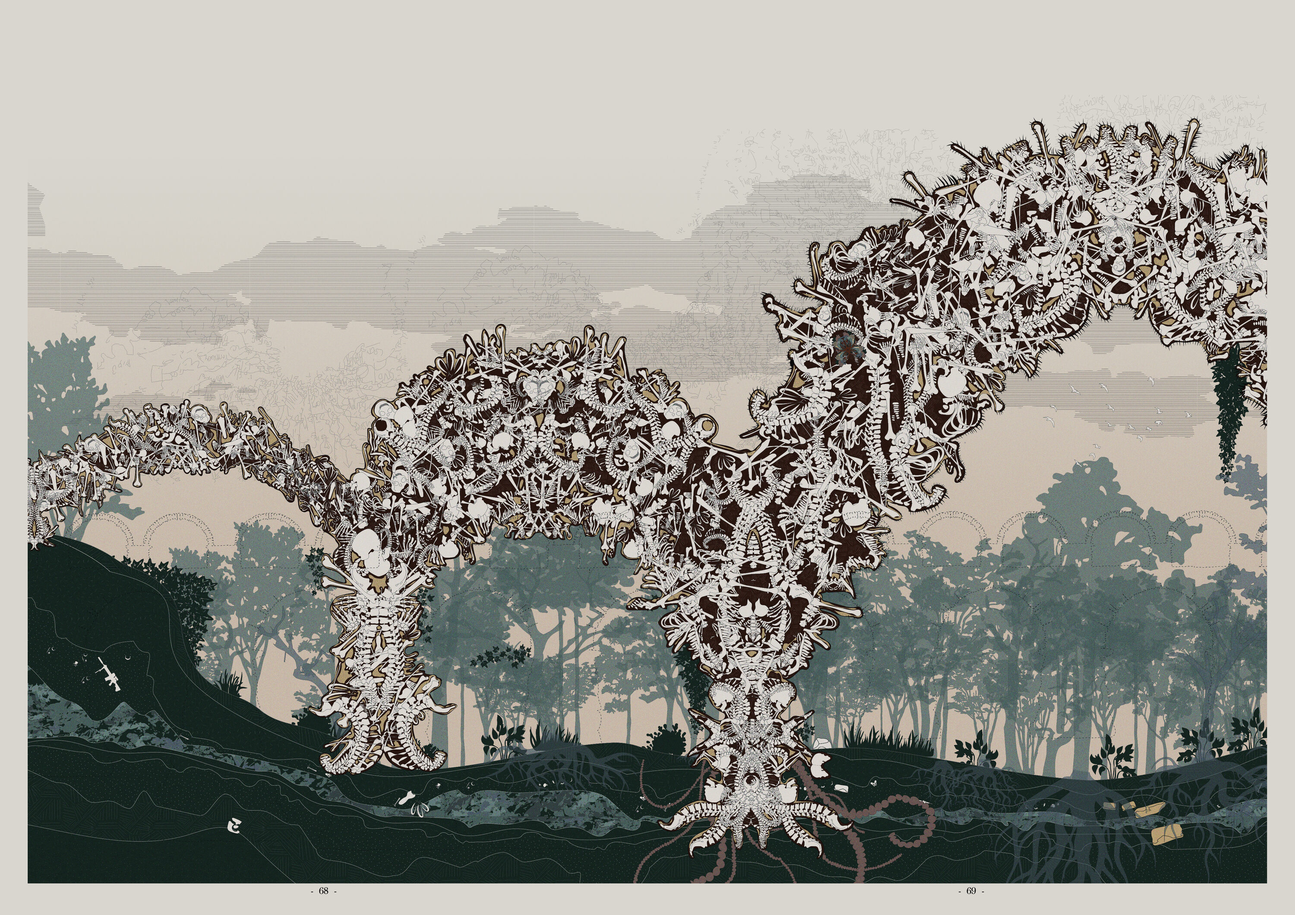
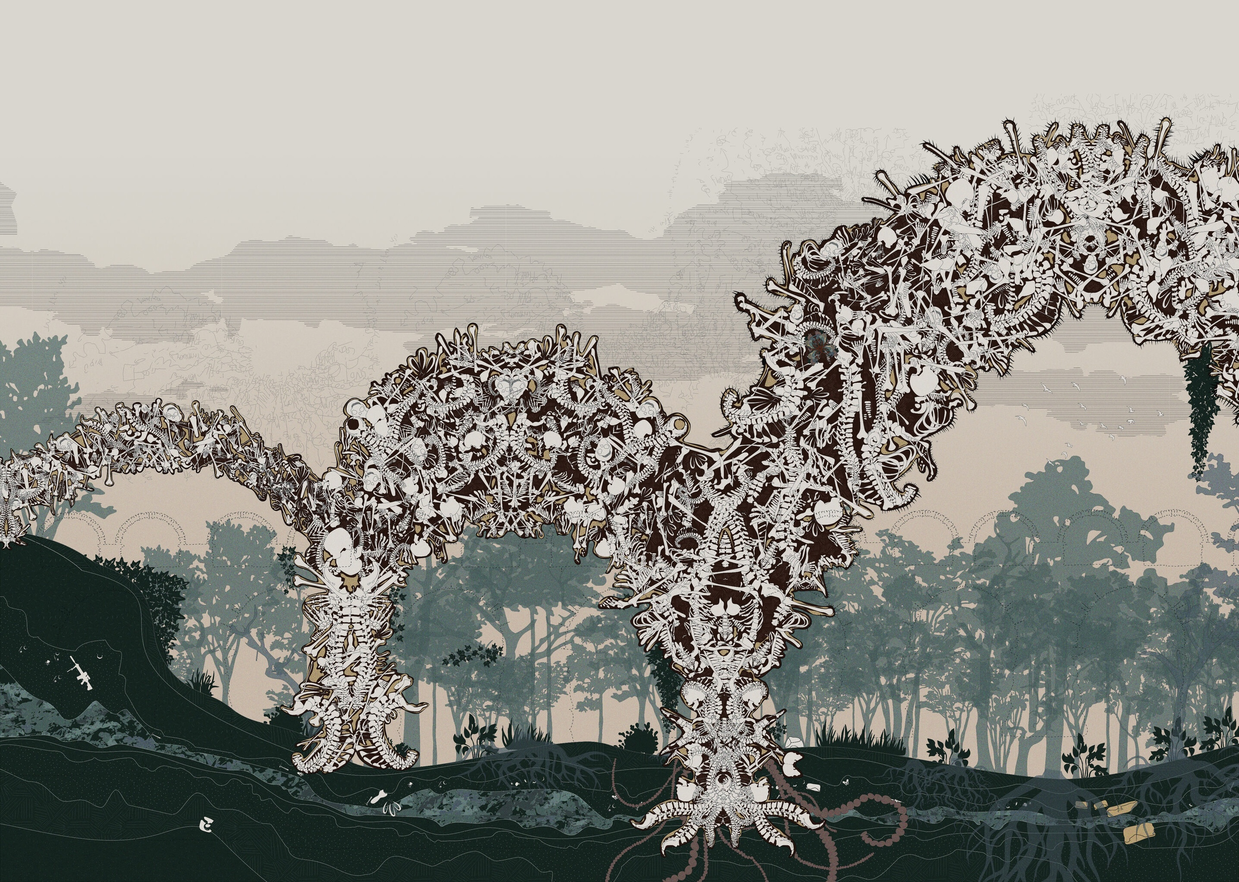
h

diff --git a/polysapien.html b/polysapien.html
@@ -94,15 +94,47 @@
           aria-label="Previous Polysapien image">‹</button>
         <div class="polysapien-gallery" id="gallery" data-auto-scroll-ms="3500">
           <div class="polysapien-gallery-item gallery-item">
-            <img data-no-figure-caption src="Images/Polysapien/Book_Layout_Large_Format35.jpg"
+            <img data-no-figure-caption src="Images/Polysapien/Scrolling Section/01.04_page15.png"
               alt="Polysapien illustrated story spread" loading="eager">
           </div>
           <div class="polysapien-gallery-item gallery-item">
-            <img data-no-figure-caption src="Images/Polysapien/Book_Layout_Large_Format39.jpg"
+            <img data-no-figure-caption src="Images/Polysapien/Scrolling Section/01.04_page17.png"
               alt="Polysapien illustrated story spread" loading="eager">
           </div>
           <div class="polysapien-gallery-item gallery-item">
-            <img data-no-figure-caption src="Images/Polysapien/Book_Layout_Large_Format43.jpg"
+            <img data-no-figure-caption src="Images/Polysapien/Scrolling Section/01.04_page19.png"
+              alt="Polysapien illustrated story spread" loading="eager">
+          </div>
+          <div class="polysapien-gallery-item gallery-item">
+            <img data-no-figure-caption src="Images/Polysapien/Scrolling Section/01.04_page30.png"
+              alt="Polysapien illustrated story spread" loading="eager">
+          </div>
+          <div class="polysapien-gallery-item gallery-item">
+            <img data-no-figure-caption src="Images/Polysapien/Scrolling Section/01.04_page32.png"
+              alt="Polysapien illustrated story spread" loading="eager">
+          </div>
+          <div class="polysapien-gallery-item gallery-item">
+            <img data-no-figure-caption src="Images/Polysapien/Scrolling Section/01.04_page33.png"
+              alt="Polysapien illustrated story spread" loading="eager">
+          </div>
+          <div class="polysapien-gallery-item gallery-item">
+            <img data-no-figure-caption src="Images/Polysapien/Scrolling Section/01.04_page39.png"
+              alt="Polysapien illustrated story spread" loading="eager">
+          </div>
+          <div class="polysapien-gallery-item gallery-item">
+            <img data-no-figure-caption src="Images/Polysapien/Scrolling Section/01.04_page40.png"
+              alt="Polysapien illustrated story spread" loading="eager">
+          </div>
+          <div class="polysapien-gallery-item gallery-item">
+            <img data-no-figure-caption src="Images/Polysapien/Scrolling Section/01.04_page43.png"
+              alt="Polysapien illustrated story spread" loading="eager">
+          </div>
+          <div class="polysapien-gallery-item gallery-item">
+            <img data-no-figure-caption src="Images/Polysapien/Scrolling Section/01.04_page47.png"
+              alt="Polysapien illustrated story spread" loading="eager">
+          </div>
+          <div class="polysapien-gallery-item gallery-item">
+            <img data-no-figure-caption src="Images/Polysapien/Scrolling Section/01.04_page54.png"
               alt="Polysapien illustrated story spread" loading="eager">
           </div>
         </div>
